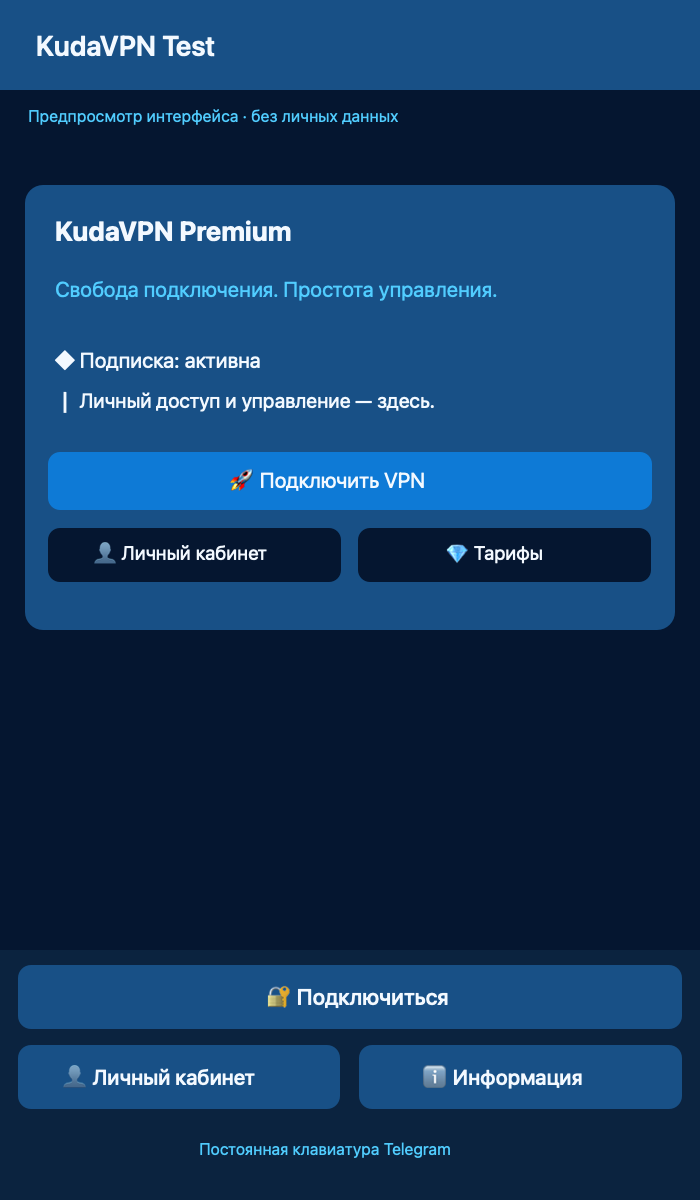
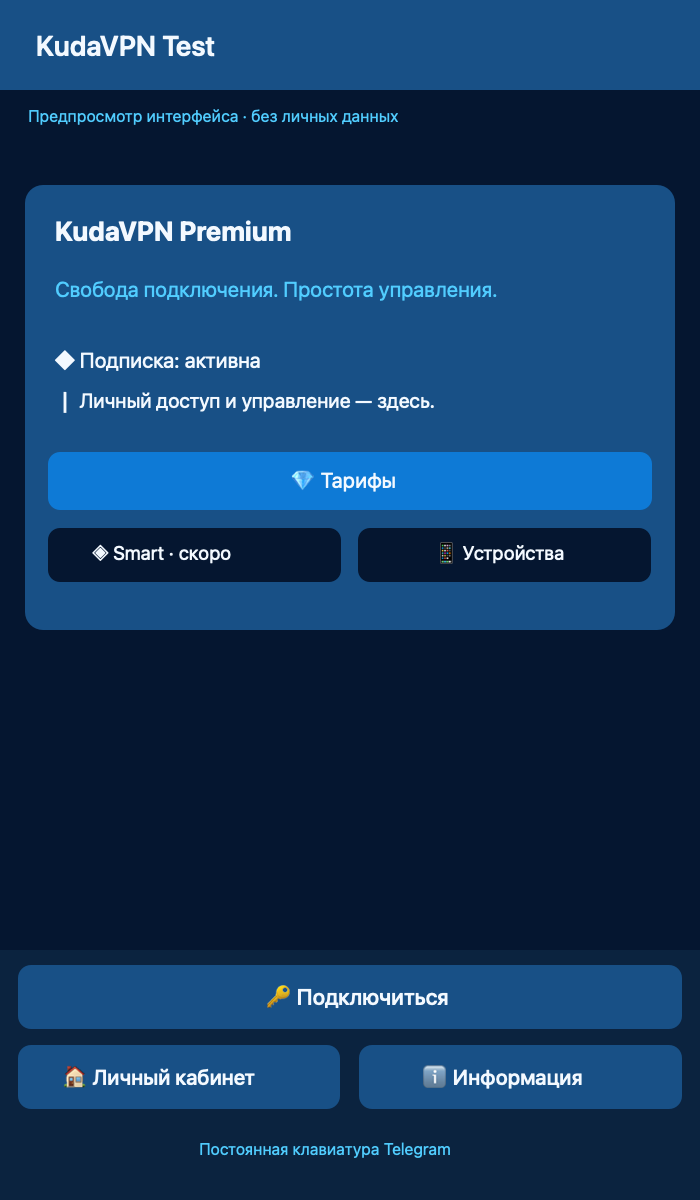
Restore pilot reply keyboard on repeated start

diff --git a/scripts/render_welcome_previews.swift b/scripts/render_welcome_previews.swift
@@ -43,16 +43,16 @@ for mode in ["welcome", "keyboard"] {
         line("◆ Подписка: активна", 55, 827, 21)
         line("┃ Личный доступ и управление — здесь.", 55, 787, 20)
         rounded(NSRect(x: 48, y: 690, width: 604, height: 58), color: NSColor(calibratedRed: 0.07, green: 0.39, blue: 0.80, alpha: 1), radius: 12)
-        line("🚀 Подключить VPN", 229, 707, 21)
+        line("💎 Тарифы", 290, 707, 21)
         rounded(NSRect(x: 48, y: 618, width: 293, height: 54), color: navy, radius: 12)
         rounded(NSRect(x: 358, y: 618, width: 293, height: 54), color: navy, radius: 12)
-        line("👤 Личный кабинет", 93, 635, 19); line("💎 Тарифы", 445, 635, 19)
+        line("◈ Smart · скоро", 92, 635, 19); line("📱 Устройства", 434, 635, 19)
         rounded(NSRect(x: 0, y: 0, width: 700, height: 250), color: NSColor(calibratedRed: 0.045, green: 0.10, blue: 0.19, alpha: 1), radius: 0)
         rounded(NSRect(x: 18, y: 171, width: 664, height: 64), color: blue, radius: 13)
-        line("🔐 Подключиться", 266, 190, 22, white, .medium)
+        line("🔑 Подключиться", 266, 190, 22, white, .medium)
         rounded(NSRect(x: 18, y: 91, width: 322, height: 64), color: blue, radius: 13)
         rounded(NSRect(x: 359, y: 91, width: 323, height: 64), color: blue, radius: 13)
-        line("👤 Личный кабинет", 62, 110, 21, white, .medium)
+        line("🏠 Личный кабинет", 62, 110, 21, white, .medium)
         line("ℹ Информация", 422, 110, 21, white, .medium)
         line("Постоянная клавиатура Telegram", 199, 41, 16, cyan)
     }

diff --git a/tests/test_pilot_welcome.py b/tests/test_pilot_welcome.py
@@ -1,6 +1,7 @@
 """Pilot first-run greeting, persistent keyboard, and hybrid navigation."""
 import asyncio
 import os
+import sqlite3
 from unittest.mock import AsyncMock
 from aiogram.methods import SendMessage, SendPhoto, DeleteMessage
 from aiogram.types import ReplyKeyboardMarkup
@@ -33,20 +34,28 @@ def test_first_start_preserves_banner_and_reply_navigation():
                         and isinstance(call.reply_markup, ReplyKeyboardMarkup)]
             assert len(keyboard) == 1
             assert [[button.text for button in row] for row in keyboard[0].reply_markup.keyboard] == [
-                ['🔐 Подключиться'], ['👤 Личный кабинет', 'ℹ Информация']]
+                ['🔑 Подключиться'], ['🏠 Личный кабинет', 'ℹ Информация']]
             menu_id = app.navigation.views[123].message_id
+            menu_buttons = [button.callback_data for row in app.navigation.views[123].screen.keyboard.inline_keyboard
+                            for button in row]
+            assert 'nav:connect' not in menu_buttons and 'nav:account' not in menu_buttons
+            assert {'nav:tariffs', 'nav:smart', 'nav:devices', 'nav:help'} <= set(menu_buttons)
             await app.text('ℹ Информация')
             assert app.navigation.views[123].message_id == menu_id
             assert 'политика конфиденциальности пока не опубликованы' in app.navigation.views[123].screen.text
-            await app.text('👤 Личный кабинет')
+            await app.text('🏠 Личный кабинет')
             assert app.navigation.views[123].message_id == menu_id
-            await app.text('🔐 Подключиться')
+            await app.text('🔑 Подключиться')
             assert app.navigation.views[123].message_id == menu_id
             assert 'Happ' in app.navigation.views[123].screen.text
             await app.text('/start')
             assert len([call for call in app.calls if isinstance(call, SendPhoto)]) == 1
-            assert len([call for call in app.calls if isinstance(call, SendMessage)
-                        and isinstance(call.reply_markup, ReplyKeyboardMarkup)]) == 1
+            keyboard_calls = [call for call in app.calls if isinstance(call, SendMessage)
+                              and isinstance(call.reply_markup, ReplyKeyboardMarkup)]
+            assert len(keyboard_calls) == 2
+            assert len([call for call in app.calls if isinstance(call, DeleteMessage)]) == 1
+            assert len([msg for msg in app.messages.values() if msg.text ==
+                        '◆ Навигация KudaVPN доступна внизу чата.']) == 1
             assert (123, banner_id) in app.messages
             assert not any(isinstance(call, DeleteMessage) and call.message_id == banner_id for call in app.calls)
         finally:
@@ -66,7 +75,8 @@ def test_old_user_gets_keyboard_without_first_run_banner():
             await app.text('/start')
             assert not any(isinstance(call, SendPhoto) for call in app.calls)
             assert len([call for call in app.calls if isinstance(call, SendMessage)
-                        and isinstance(call.reply_markup, ReplyKeyboardMarkup)]) == 1
+                        and isinstance(call.reply_markup, ReplyKeyboardMarkup)]) == 2
+            assert len([call for call in app.calls if isinstance(call, DeleteMessage)]) == 1
         finally:
             await app.close()
     asyncio.run(run())
@@ -85,10 +95,10 @@ def test_active_owner_keeps_existing_happ_path_and_one_navigation_screen():
         try:
             await app.text('/start')
             menu_id = app.navigation.views[123].message_id
-            await app.text('👤 Личный кабинет')
+            await app.text('🏠 Личный кабинет')
             assert 'Активна' in app.navigation.views[123].screen.text
             assert app.navigation.views[123].message_id == menu_id
-            await app.text('🔐 Подключиться')
+            await app.text('🔑 Подключиться')
             assert 'https://subscriptions.example.invalid/s/demo' in app.navigation.views[123].screen.text
             assert app.navigation.views[123].message_id == menu_id
             services.happ.issue_for_user.assert_awaited_once_with(123)
@@ -111,7 +121,7 @@ def test_pilot_ledger_survives_restart_without_shared_database_migration(tmp_pat
         assert not await first.user_exists(123)
         assert await first.first_start(123, new_user=True)
         await first.record_welcome(123, 501)
-        assert await first.claim_keyboard(123)
+        assert await first.record_keyboard_message(123, 502) is None
         async with sessions.begin() as session:
             session.add(User(telegram_id=123, first_name='Tester'))
         restarted = PilotOnboardingService(sessions, str(state))
@@ -119,7 +129,25 @@ def test_pilot_ledger_survives_restart_without_shared_database_migration(tmp_pat
         assert not await restarted.first_start(123, new_user=False)
         assert await restarted.valid_welcome(123, 501)
         assert not await restarted.valid_welcome(456, 501)
-        assert not await restarted.claim_keyboard(123)
+        assert await restarted.record_keyboard_message(123, 503) == 502
         assert os.stat(state).st_mode & 0o777 == 0o600
         await engine.dispose()
+    asyncio.run(run())
+
+
+def test_existing_keyboard_ledger_accepts_new_hint_without_reusing_old_claim(tmp_path):
+    async def run():
+        state = tmp_path / 'private' / 'welcome.sqlite'
+        state.parent.mkdir()
+        with sqlite3.connect(state) as connection:
+            connection.execute('CREATE TABLE onboarding (telegram_id INTEGER PRIMARY KEY, '
+                               'welcome_claimed INTEGER NOT NULL, welcome_message_id INTEGER, '
+                               'keyboard_installed INTEGER NOT NULL)')
+            connection.execute('INSERT INTO onboarding VALUES (123, 1, 501, 1)')
+        ledger = PilotOnboardingService(None, str(state))
+        assert await ledger.record_keyboard_message(123, 601) is None
+        assert await ledger.record_keyboard_message(123, 602) == 601
+        with sqlite3.connect(state) as connection:
+            assert connection.execute('SELECT welcome_message_id, keyboard_installed '
+                                      'FROM onboarding WHERE telegram_id=123').fetchone() == (501, 1)
     asyncio.run(run())

diff --git a/bot/services/onboarding.py b/bot/services/onboarding.py
@@ -24,6 +24,8 @@ class PilotOnboardingService:
         connection.execute("CREATE TABLE IF NOT EXISTS onboarding ("
             "telegram_id INTEGER PRIMARY KEY, welcome_claimed INTEGER NOT NULL, "
             "welcome_message_id INTEGER, keyboard_installed INTEGER NOT NULL)")
+        connection.execute("CREATE TABLE IF NOT EXISTS keyboard_hints ("
+            "telegram_id INTEGER PRIMARY KEY, message_id INTEGER NOT NULL)")
         return connection
 
     @contextmanager
@@ -59,20 +61,16 @@ class PilotOnboardingService:
                 return bool(row and row[0] and row[1] == message_id)
         return await asyncio.to_thread(check)
 
-    async def claim_keyboard(self, telegram_id: int) -> bool:
-        def claim():
+    async def record_keyboard_message(self, telegram_id: int, message_id: int) -> int | None:
+        def record():
             with self._transaction() as connection:
-                result = connection.execute("UPDATE onboarding SET keyboard_installed=1 "
-                    "WHERE telegram_id=? AND keyboard_installed=0", (telegram_id,))
-                return result.rowcount == 1
-        return await asyncio.to_thread(claim)
-
-    async def release_keyboard(self, telegram_id: int) -> None:
-        def release():
-            with self._transaction() as connection:
-                connection.execute("UPDATE onboarding SET keyboard_installed=0 WHERE telegram_id=?",
-                                   (telegram_id,))
-        await asyncio.to_thread(release)
+                previous = connection.execute("SELECT message_id FROM keyboard_hints "
+                    "WHERE telegram_id=?", (telegram_id,)).fetchone()
+                connection.execute("INSERT INTO keyboard_hints (telegram_id, message_id) "
+                    "VALUES (?, ?) ON CONFLICT(telegram_id) DO UPDATE SET message_id=excluded.message_id",
+                    (telegram_id, message_id))
+                return previous[0] if previous else None
+        return await asyncio.to_thread(record)
 
 
 class MemoryPilotOnboarding:
@@ -86,7 +84,7 @@ class MemoryPilotOnboarding:
     async def first_start(self, telegram_id: int, *, new_user: bool) -> bool:
         if telegram_id in self.rows:
             return False
-        self.rows[telegram_id] = {'welcome': new_user, 'message_id': None, 'keyboard': False}
+        self.rows[telegram_id] = {'welcome': new_user, 'message_id': None, 'keyboard_message_id': None}
         return new_user
 
     async def record_welcome(self, telegram_id: int, message_id: int) -> None:
@@ -96,12 +94,8 @@ class MemoryPilotOnboarding:
         row = self.rows.get(telegram_id)
         return bool(row and row['welcome'] and row['message_id'] == message_id)
 
-    async def claim_keyboard(self, telegram_id: int) -> bool:
+    async def record_keyboard_message(self, telegram_id: int, message_id: int) -> int | None:
         row = self.rows[telegram_id]
-        if row['keyboard']:
-            return False
-        row['keyboard'] = True
-        return True
-
-    async def release_keyboard(self, telegram_id: int) -> None:
-        self.rows[telegram_id]['keyboard'] = False
+        previous = row['keyboard_message_id']
+        row['keyboard_message_id'] = message_id
+        return previous

diff --git a/bot/handlers/start.py b/bot/handlers/start.py
@@ -26,13 +26,17 @@ WELCOME = ("<b>Добро пожаловать в KudaVPN.</b>\n\n"
 async def install_reply_keyboard(bot, user_id: int, services: Services) -> None:
     if not services.pilot_welcome_enabled or services.onboarding is None:
         return
-    if await services.onboarding.claim_keyboard(user_id):
-        try:
-            await bot.send_message(user_id, "◆ Навигация KudaVPN всегда доступна внизу чата.",
-                                   reply_markup=premium_reply_keyboard())
-        except TelegramAPIError:
-            await services.onboarding.release_keyboard(user_id)
-            logger.warning("Pilot reply keyboard unavailable")
+    try:
+        sent = await bot.send_message(user_id, "◆ Навигация KudaVPN доступна внизу чата.",
+                                      reply_markup=premium_reply_keyboard())
+        previous = await services.onboarding.record_keyboard_message(user_id, sent.message_id)
+        if previous and previous != sent.message_id:
+            try:
+                await bot.delete_message(user_id, previous)
+            except TelegramAPIError:
+                logger.debug("Previous pilot keyboard hint could not be removed")
+    except TelegramAPIError:
+        logger.warning("Pilot reply keyboard unavailable")
 
 
 async def home_for_user(services: Services, user_id: int):
@@ -43,7 +47,8 @@ async def home_for_user(services: Services, user_id: int):
     except (SQLAlchemyError, TimeoutError):
         # Navigation stays available without presenting an unverified status.
         snapshot = None
-    return home(premium_account=True, snapshot=snapshot)
+    return home(premium_account=True, snapshot=snapshot,
+                reply_navigation=services.pilot_welcome_enabled)
 
 
 async def start(message: Message, command: CommandObject, services: Services, navigation: Navigation):

diff --git a/bot/screens.py b/bot/screens.py
@@ -30,7 +30,8 @@ def panel(title: str, body: str, keyboard: InlineKeyboardMarkup | None = None) -
     return Screen(f"{BRAND}\n<b>{title}</b>\n\n┃ {body}\n\n◆ KudaVPN · личное пространство", keyboard or back_keyboard())
 
 
-def home(*, premium_account: bool = False, snapshot: AccountSnapshot | None = None) -> Screen:
+def home(*, premium_account: bool = False, snapshot: AccountSnapshot | None = None,
+         reply_navigation: bool = False) -> Screen:
     if premium_account:
         statuses = {"inactive": "Не активна", "active": "Активна", "expired": "Истекла",
                     "pending": "Ожидает активации", "blocked": "Заблокирована"}
@@ -38,7 +39,7 @@ def home(*, premium_account: bool = False, snapshot: AccountSnapshot | None = No
                  if snapshot else "◆ Статус подписки — в личном кабинете")
         return Screen(f"{BRAND}\n<i>Свобода подключения. Простота управления.</i>\n\n"
                       f"{state}\n┃ Личный доступ и управление — здесь.",
-                      main_menu(premium_account=True))
+                      main_menu(premium_account=True, reply_navigation=reply_navigation))
     intro = ("Ваш VPN и подписка всегда под рукой."
              if premium_account else "VPN, подписка и устройства — в одном месте.")
     return Screen(f"{BRAND}\n<i>Ваше пространство подключения.</i>\n\n"

diff --git a/bot/keyboards/main.py b/bot/keyboards/main.py
@@ -17,14 +17,20 @@ def button(text: str, destination: str, *, primary: bool = False) -> InlineKeybo
                                 style="primary" if primary else None)
 
 
-def main_menu(*, premium_account: bool = False) -> InlineKeyboardMarkup:
+def main_menu(*, premium_account: bool = False,
+              reply_navigation: bool = False) -> InlineKeyboardMarkup:
     if premium_account:
-        return InlineKeyboardMarkup(inline_keyboard=[
+        rows = ([
+            [button(BUY, "nav:tariffs")],
+        ] if reply_navigation else [
             [button(CONNECT, "nav:connect", primary=True)],
             [button(SUBSCRIPTION, "nav:account"), button(BUY, "nav:tariffs")],
+        ])
+        rows.extend([
             [button("◈ Smart · скоро", "nav:smart"), button("📱 Устройства", "nav:devices")],
             [button("🎁 Пригласить", "nav:invite"), button("🎧 Поддержка", "nav:help")],
         ])
+        return InlineKeyboardMarkup(inline_keyboard=rows)
     return InlineKeyboardMarkup(inline_keyboard=[
         [button(CONNECT, "nav:connect")],
         [button(SUBSCRIPTION, "nav:account"), button(BUY, "nav:tariffs")],

diff --git a/bot/keyboards/reply.py b/bot/keyboards/reply.py
@@ -1,7 +1,7 @@
 from aiogram.types import KeyboardButton, ReplyKeyboardMarkup
 
-CONNECT = "🔐 Подключиться"
-ACCOUNT = "👤 Личный кабинет"
+CONNECT = "🔑 Подключиться"
+ACCOUNT = "🏠 Личный кабинет"
 INFO = "ℹ Информация"
 
 

diff --git a/docs/WORK_SESSION_HANDOFF.md b/docs/WORK_SESSION_HANDOFF.md
@@ -123,3 +123,5 @@
 **Пилот первого впечатления, 23 октября:** зависимая от PR №20 ветка `codex/premium-welcome-20261023` добавляет однократный баннер нового пользователя и постоянную трёхкнопочную Reply Keyboard только для @KudaVPN_Test_Bot. Состояние хранится в отдельном приватном SQLite-файле, без миграции общей тестовой PostgreSQL; старые уведомления и приветствие остаются в истории, экраны продолжают редактироваться. Информационный экран не выдаёт несуществующие юридические документы за опубликованные. Профильные тесты и макеты — в `docs/premium-welcome-navigation-20261023.md`. Следующий шаг после публикации ветки: закрытая копия тестового bot, проверка отката и включение флага только в его env; VPN/feed/production не менять.
 
 **Выполнено позднее 23 октября / UTC 24 октября:** открыт [Draft PR №21](https://github.com/Denis-hud-dev/vpn-service/pull/21) строго поверх PR №20. После закрытой копии и подготовки `/root/kuda-welcome-rollback-8010321.sh` первый тестовый релиз `8010321` был установлен только в bot-службу. Затем исправлено своевременное закрытие SQLite-соединений (`89dc26c`): профильные тесты 65 passed, 1 skipped, [CI](https://github.com/Denis-hud-dev/vpn-service/actions/runs/40070778079) прошёл. Активный каталог тестового бота теперь `app-welcome-89dc26c-bot`; закрытая копия промежуточного drop-in сохранена отдельно. `/ready=200`, bot/feed активны, одна личная подписка по-прежнему указывает на тестовый узел 10443, рабочие порты 443/8443/9443/10443 слушают, ошибок bot уровня `err` нет. Владелец должен проверить в Telegram на Android и Mac нижнюю клавиатуру и первый экран через новый Telegram-аккаунт без подписки; прежнему владельцу `/start` показывает клавиатуру без повторного баннера. Не публиковать личную ссылку Happ в скриншотах.
+
+**Исправление по замечанию владельца 24 октября:** тестовый бот работал с флагом Welcome, но старая логика отправляла Reply Keyboard лишь однажды и на повторный `/start` блокировала её повторную отправку. Исправление в PR №21 повторно отправляет клавиатуру и заменяет только предыдущее служебное сообщение о ней, не затрагивая баннер и важные уведомления. Надписи нижних кнопок изменены на `🔑 Подключиться`, `🏠 Личный кабинет`, `ℹ Информация`. Дублирующие подключение и кабинет скрыты в inline-меню только тестового пилота. В отдельном приватном SQLite-файле добавляется таблица ID служебного сообщения; общая PostgreSQL не меняется. Подробности и профильные тесты — `docs/premium-welcome-navigation-20261023.md`. До отдельной записи о новом релизе действующим остаётся `app-welcome-89dc26c-bot`.

diff --git a/docs/premium-welcome-navigation-20261023.md b/docs/premium-welcome-navigation-20261023.md
@@ -21,3 +21,9 @@
 После успешного CI первоначальный релиз `8010321` распакован в отдельный каталог. Дополнительный просмотр выявил задержку закрытия SQLite-соединения; исправление `89dc26c` прошло профильные тесты и CI, после чего тестовая bot-служба переключена на `/opt/kudavpn-telegram-pilot/app-welcome-89dc26c-bot`. Закрытые копии unit/drop-in и исходного пути — `/opt/kudavpn-telegram-pilot/backups/welcome-8010321-20261024/` и `/opt/kudavpn-telegram-pilot/backups/welcome-fix-89dc26c-20261024/`. Быстрый откат — `/root/kuda-welcome-rollback-8010321.sh`, он переключает только bot-службу на прежний каталог `app-tariffs-4562c38-bot`. Новый приватный каталог состояния имеет права 0700 и принадлежит только тестовому bot-пользователю.
 
 После запуска bot/feed активны, `/ready=200`, NRestarts bot=0, ошибок уровня `err` в проверенном окне нет. Закрытая проверка без вывода URL подтвердила 200 для страницы и подписки, один тестовый узел 10443. Порты 443/8443/9443/10443 продолжили прослушиваться. Обновлялся только тестовый bot; HTTPS/feed, Xray, production, общая PostgreSQL и платежи не переключались. На реальных клиентах Telegram нижнюю клавиатуру и первый баннер ещё должен проверить владелец: приложенные PNG — воспроизводимые макеты, а не снимки Android.
+
+## Исправление повторного `/start`, 24 октября
+
+Проверка запущенного тестового процесса показала релиз `app-welcome-89dc26c-bot`, оба флага Premium/Welcome включены. Прежняя логика после первой успешной отправки ставила `keyboard_installed=1` и больше не отправляла `ReplyKeyboardMarkup` на `/start`. Это объясняет невозможность восстановить скрытую или не показанную клиентом клавиатуру. При дистанционной проверке приватный файл состояния ещё не существовал; факт первой отправки клавиатуры конкретному Mac-клиенту серверными данными не подтверждён. Ошибок SQLite или отправки клавиатуры в проверенном журнале не было.
+
+Теперь повторный `/start` всегда отправляет нижнюю клавиатуру `🔑 Подключиться` / `🏠 Личный кабинет` / `ℹ Информация`. Отдельная приватная таблица хранит ID только служебного сообщения клавиатуры: новое сообщение заменяет предыдущее, не удаляя приветствие, уведомления, пользовательские сообщения или навигационный экран. Действующий файл с прежней таблицей читается без миграции общей PostgreSQL. Подключение и кабинет убраны только из inline-меню тестового пилота; тарифы, Smart, устройства и помощь остались. Автоматические тесты повторного `/start`, первого запуска, старого SQLite-состояния, переходов и сохранения Happ: **56 passed**.
